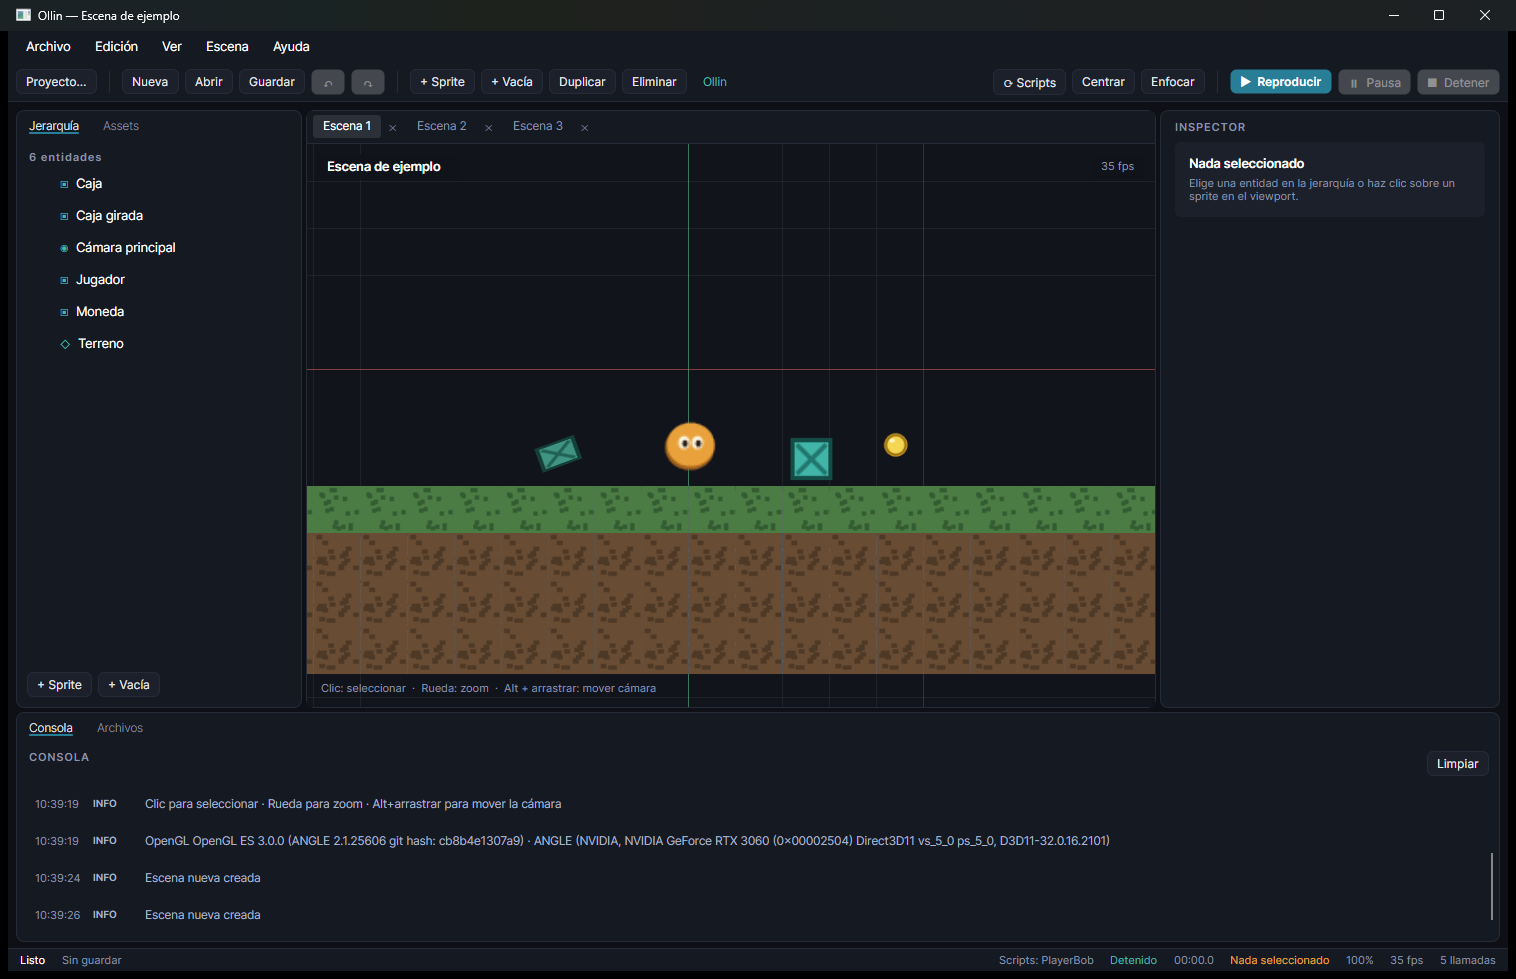
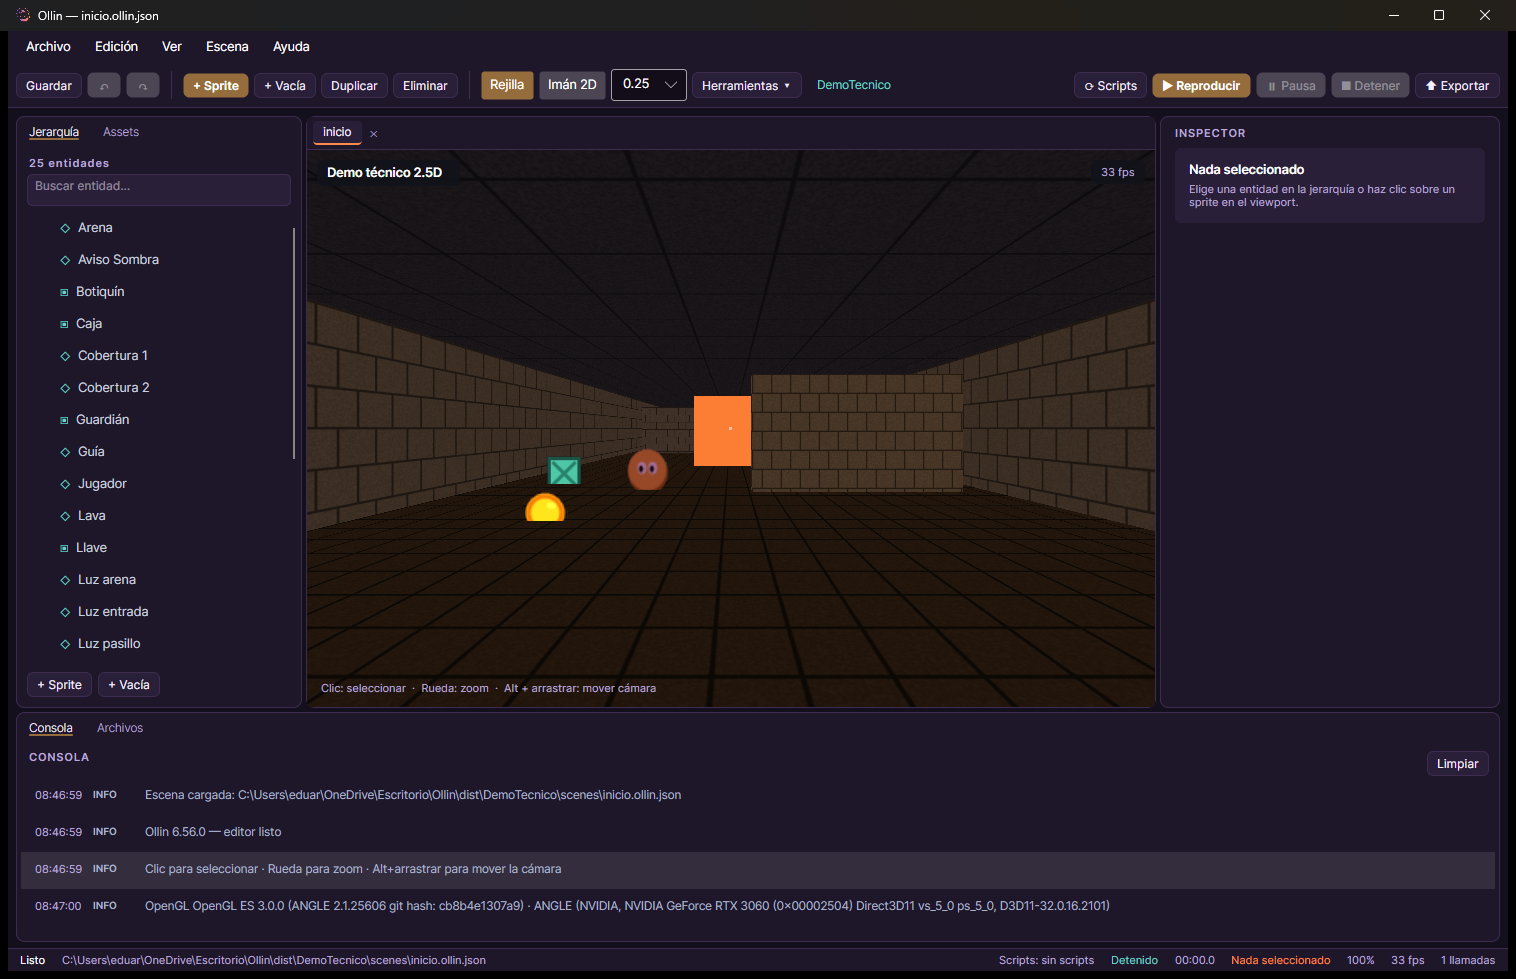
Beta 6.57.0: interfaz limpia y snap 2D

diff --git a/src/Ollin.Editor/Views/MainWindow.axaml.cs b/src/Ollin.Editor/Views/MainWindow.axaml.cs
@@ -1,4 +1,5 @@
 using System.Collections.Specialized;
+using System.Globalization;
 using System.Reflection;
 using System.Xml;
 using AvaloniaEdit.Highlighting;
@@ -394,6 +395,28 @@ public partial class MainWindow : Window
 
     private void OnSnapToggle(object? sender, Avalonia.Interactivity.RoutedEventArgs e) =>
         ViewportHost.Viewport.Snap3D = (sender as Avalonia.Controls.Primitives.ToggleButton)?.IsChecked == true;
+
+    private void OnSnap2DToggle(object? sender, Avalonia.Interactivity.RoutedEventArgs e)
+    {
+        if (ViewportHost?.Viewport is { } viewport)
+        {
+            viewport.Snap2D = (sender as Avalonia.Controls.Primitives.ToggleButton)?.IsChecked == true;
+        }
+    }
+
+    private void OnSnap2DSizeChanged(object? sender, SelectionChangedEventArgs e)
+    {
+        if (ViewportHost?.Viewport is not { } viewport || sender is not ComboBox combo ||
+            combo.SelectedItem is not ComboBoxItem item)
+        {
+            return;
+        }
+
+        if (float.TryParse(item.Tag?.ToString(), NumberStyles.Float, CultureInfo.InvariantCulture, out var step))
+        {
+            viewport.Snap2DStep = Math.Clamp(step, 0.01f, 10f);
+        }
+    }
 
     private void OnDuplicateSeries(object? sender, Avalonia.Interactivity.RoutedEventArgs e) => ViewModel?.DuplicateSelectedSeries();
 

diff --git a/src/Ollin.Editor/Controls/ViewportControl.cs b/src/Ollin.Editor/Controls/ViewportControl.cs
@@ -122,6 +122,11 @@ public sealed class ViewportControl : OpenGlControlBase
 
     public bool Snap3D { get; set; }
 
+    /// <summary>Ajuste de posición 2D a la rejilla.</summary>
+    public bool Snap2D { get; set; }
+
+    public float Snap2DStep { get; set; } = 0.25f;
+
     public float SnapStep { get; set; } = 0.5f;
 
     /// <summary>Coloca una pared o suelo en el punto del plano del suelo bajo el puntero.</summary>

diff --git a/docs/RELEASE-NOTES.md b/docs/RELEASE-NOTES.md
@@ -1,22 +1,23 @@
-## Ollin Beta 6.56.0 — accesibilidad del grafo
+## Ollin Beta 6.57.0 — interfaz limpia y snap 2D
 
 ### Incluye
 
-- La ventana **F1** enfoca la primera acción y se cierra con `Esc`.
-- El estado del grafo se anuncia como región viva.
-- El buscador tiene nombre y ayuda accesible.
-- Guía manual para Narrator/NVDA.
+- Barra principal **limpia y agrupada**.
+- **Rejilla** visible/oculta.
+- **Imán 2D** configurable (0.25–2).
+- Herramientas 3D/2.5D en **Herramientas ▾**.
+- Reproducir, pausa, detener y exportar a la derecha.
 - **205 pruebas automatizadas**.
 
 ### Cómo probarlo
 
-1. Instala 6.56.0 y abre el grafo.
-2. Pulsa **F1**; la primera acción debe tener el foco.
-3. Pulsa **Esc** para cerrar.
-4. Ejecuta `tools/ui-smoke.ps1` para validar nombres UIA.
-5. Sigue `docs/ACCESIBILIDAD.md` para Narrator/NVDA.
+1. Instala 6.57.0 y abre el editor.
+2. Prueba **+ Sprite**, **Rejilla** e **Imán 2D**.
+3. Cambia el tamaño del imán y mueve un sprite.
+4. Abre **Herramientas ▾** para paredes, gizmos, grafo y cámara.
 
 ### Limitaciones
 
-- La prueba con lector de pantalla real queda pendiente de ejecución manual.
+- El imán 2D se aplica al mover; rotación/escala usan Ctrl.
+- Los tamaños de rejilla son 0.25, 0.5, 1 y 2.
 - La demo técnica no se publica.

diff --git a/docs/BETA.md b/docs/BETA.md
@@ -1,4 +1,4 @@
-# Beta 6.56.0 de Ollin
+# Beta 6.57.0 de Ollin
 
 Compilación de prueba para instalar y usar el motor fuera del repositorio. Cierra la
 etapa 6 del roadmap (2.5D, grafo visual y pulido del editor).
@@ -30,7 +30,7 @@ etapa 6 del roadmap (2.5D, grafo visual y pulido del editor).
 
 ## Instalar
 
-1. Ejecuta `Ollin-Setup-6.56.0-beta.exe`.
+1. Ejecuta `Ollin-Setup-6.57.0-beta.exe`.
 2. Pulsa **Instalar**. Se copia en `%LOCALAPPDATA%\Ollin`.
 3. Se crean accesos directos en el escritorio y en el menú Inicio.
 4. Abre Ollin y elige un proyecto en el lanzador, o crea uno con la plantilla
@@ -85,7 +85,7 @@ dotnet publish tools/Ollin.Setup -c Release -r win-x64 --self-contained false `
 ## Prueba automática del instalador
 
 ```powershell
-$setup = "dist/installer/Ollin-Setup-6.56.0-beta.exe"
+$setup = "dist/installer/Ollin-Setup-6.57.0-beta.exe"
 Start-Process $setup -ArgumentList "--silent" -Wait
 Start-Process "$env:LOCALAPPDATA/Ollin/Desinstalar.exe" -ArgumentList "--uninstall --silent" -Wait
 ```

diff --git a/docs/GUIA.md b/docs/GUIA.md
@@ -981,3 +981,11 @@ error de sintaxis.
 - El estado del grafo es una región viva para lectores de pantalla.
 - El buscador tiene nombre y texto de ayuda.
 - Guía manual para Narrator/NVDA en `docs/ACCESIBILIDAD.md`.
+
+## 55. Pulido de interfaz y 2D (6.57)
+
+- Barra principal limpia: guardar, undo/redo, + Sprite, + Vacía, duplicar, eliminar.
+- **Rejilla** visible/oculta desde la barra.
+- **Imán 2D** configurable: 0.25, 0.5, 1 o 2 unidades.
+- Herramientas 3D/2.5D y cámara/scripts en **Herramientas ▾**.
+- Reproducir, pausa, detener y exportar agrupados a la derecha.

diff --git a/README.md b/README.md
@@ -23,7 +23,7 @@ Ollin es **gratis y de código abierto (MIT)**: puedes usarlo, modificarlo y dis
 
 ## Descargas
 
-- **Última beta**: [Ollin-Setup-6.56.0-beta.exe](https://github.com/deadcodeMx/ollin/releases/latest)
+- **Última beta**: [Ollin-Setup-6.57.0-beta.exe](https://github.com/deadcodeMx/ollin/releases/latest)
 - **Todas las versiones**: [Releases del proyecto](https://github.com/deadcodeMx/ollin/releases)
 - **Guía completa de uso**: [docs/GUIA.md](docs/GUIA.md)
 

diff --git a/CHANGELOG.md b/CHANGELOG.md
@@ -17,6 +17,15 @@ versionado [SemVer](https://semver.org/lang/es/).
 - Puente 2.5D y 3D.
 - Exportación de un juego a un ejecutable.
 
+## [6.57.0] — 2026-11-02
+
+### Cambiado
+
+- Barra del editor reorganizada y simplificada.
+- Herramientas 3D/2.5D en un menú desplegable.
+- Imán 2D configurable y toggle de rejilla.
+- 205 pruebas automatizadas.
+
 ## [6.56.0] — 2026-11-02
 
 ### Añadido
